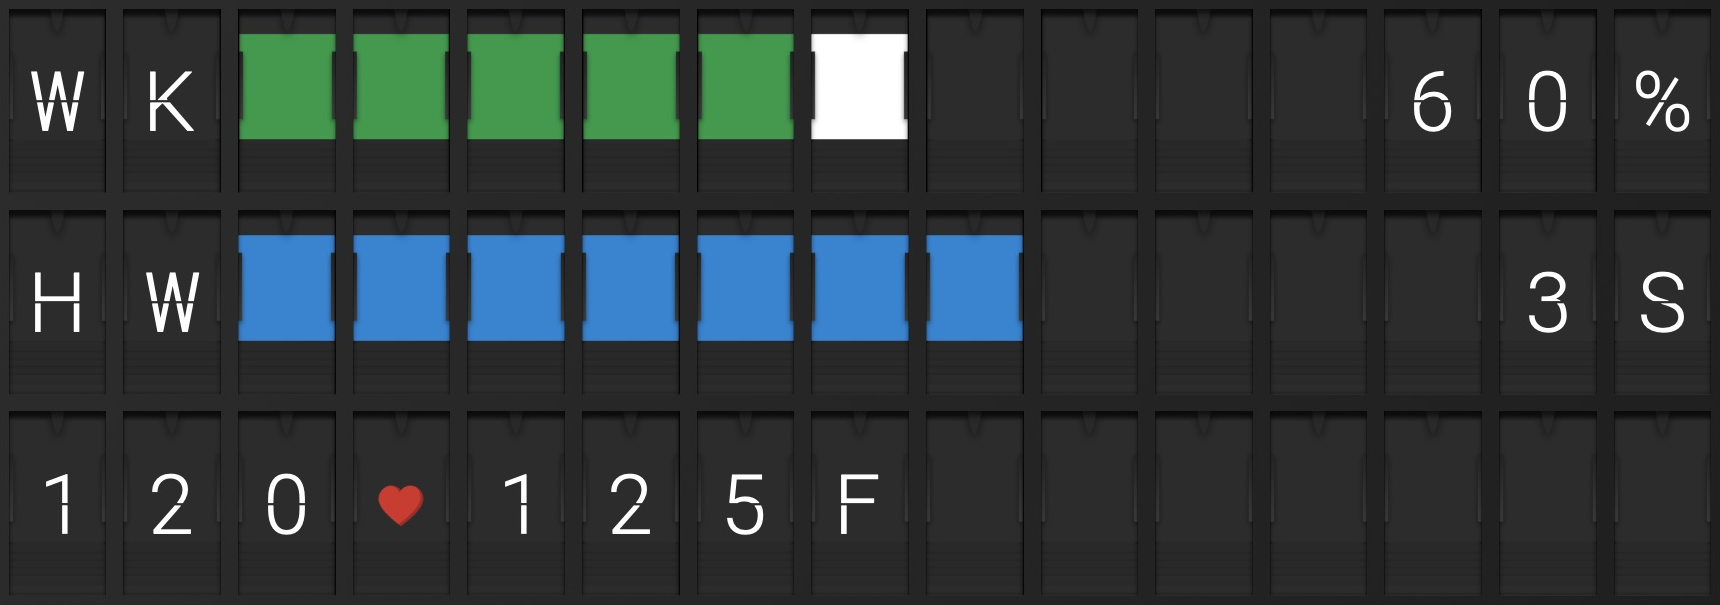
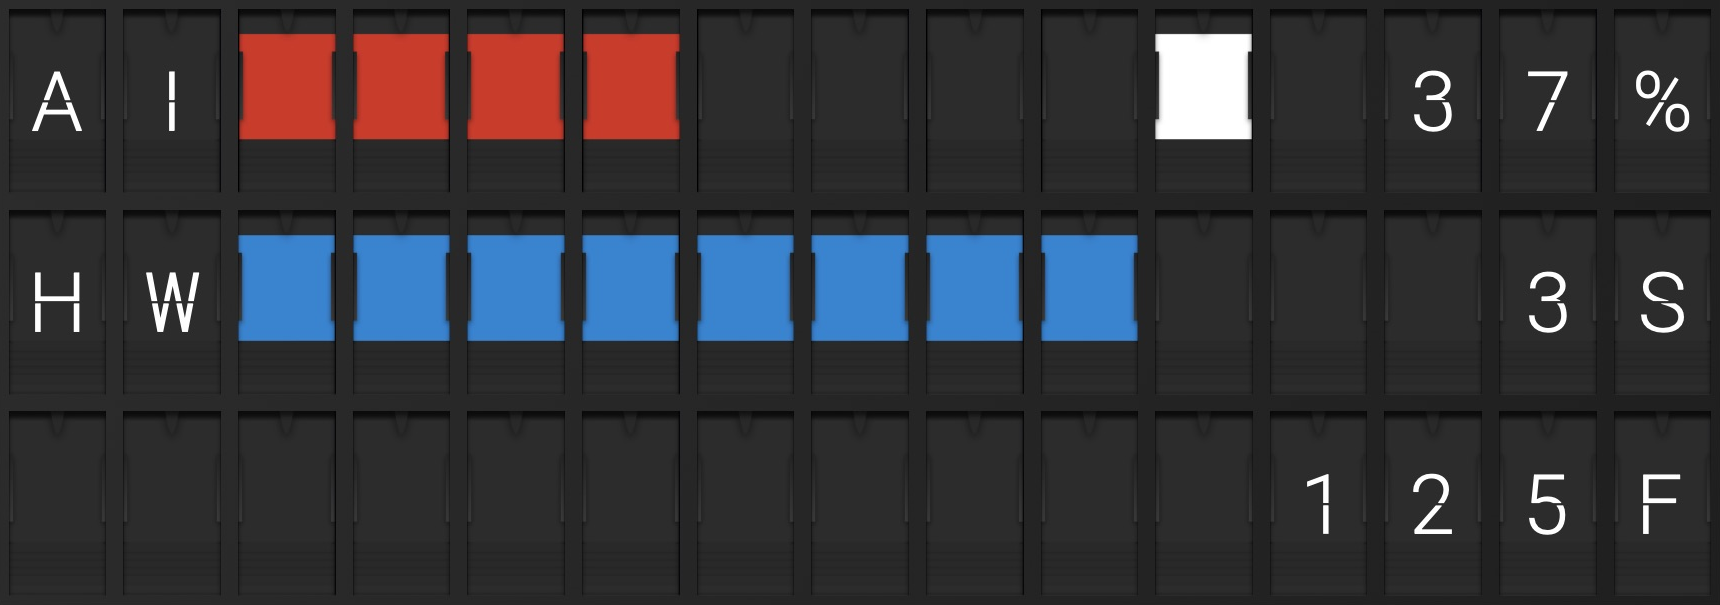
Refresh hero with current right-aligned water temperature layout (#80)

diff --git a/README.md b/README.md
@@ -2,7 +2,7 @@
 
 vbmux is a small service and web interface for arranging Home Assistant and Codex content on a [Vestaboard](https://web.vestaboard.com/referral?vbref=NZJHOT) (referral link). It supports Note (3 × 15) and Flagship (6 × 22), with a live board preview and configurable update limits.
 
-<img src="docs/images/board-hero.png" alt="Codex quota, a Home Assistant bar row, and custom temperature characters on Vestaboard Note" width="640">
+<img src="docs/images/board-hero.png" alt="Codex quota, a Home Assistant hot-water bar, and right-aligned water temperature on Vestaboard Note" width="640">
 
 ## Features
 
